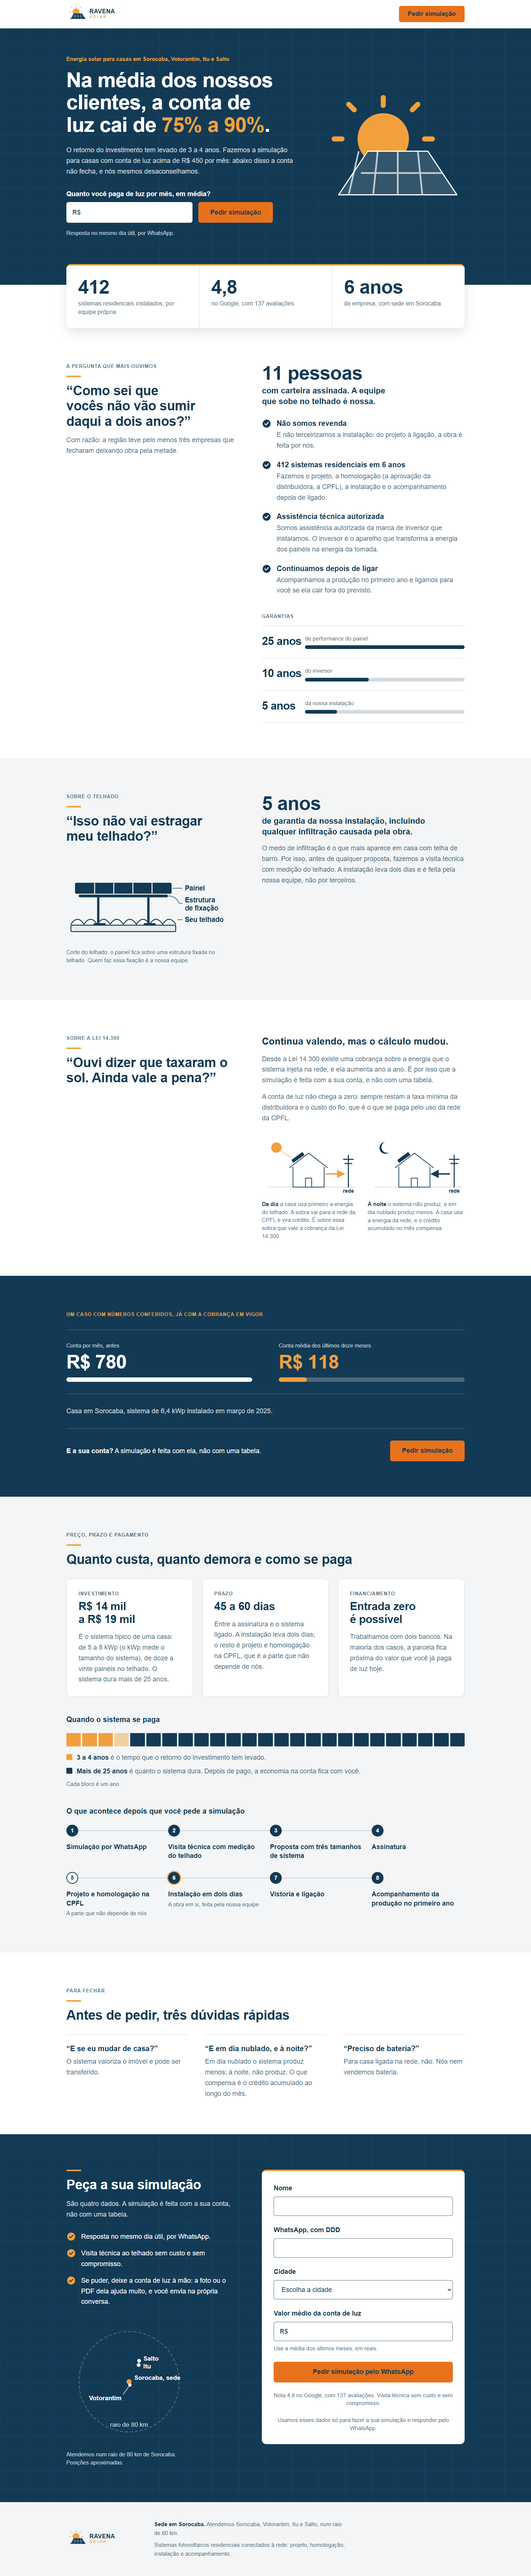
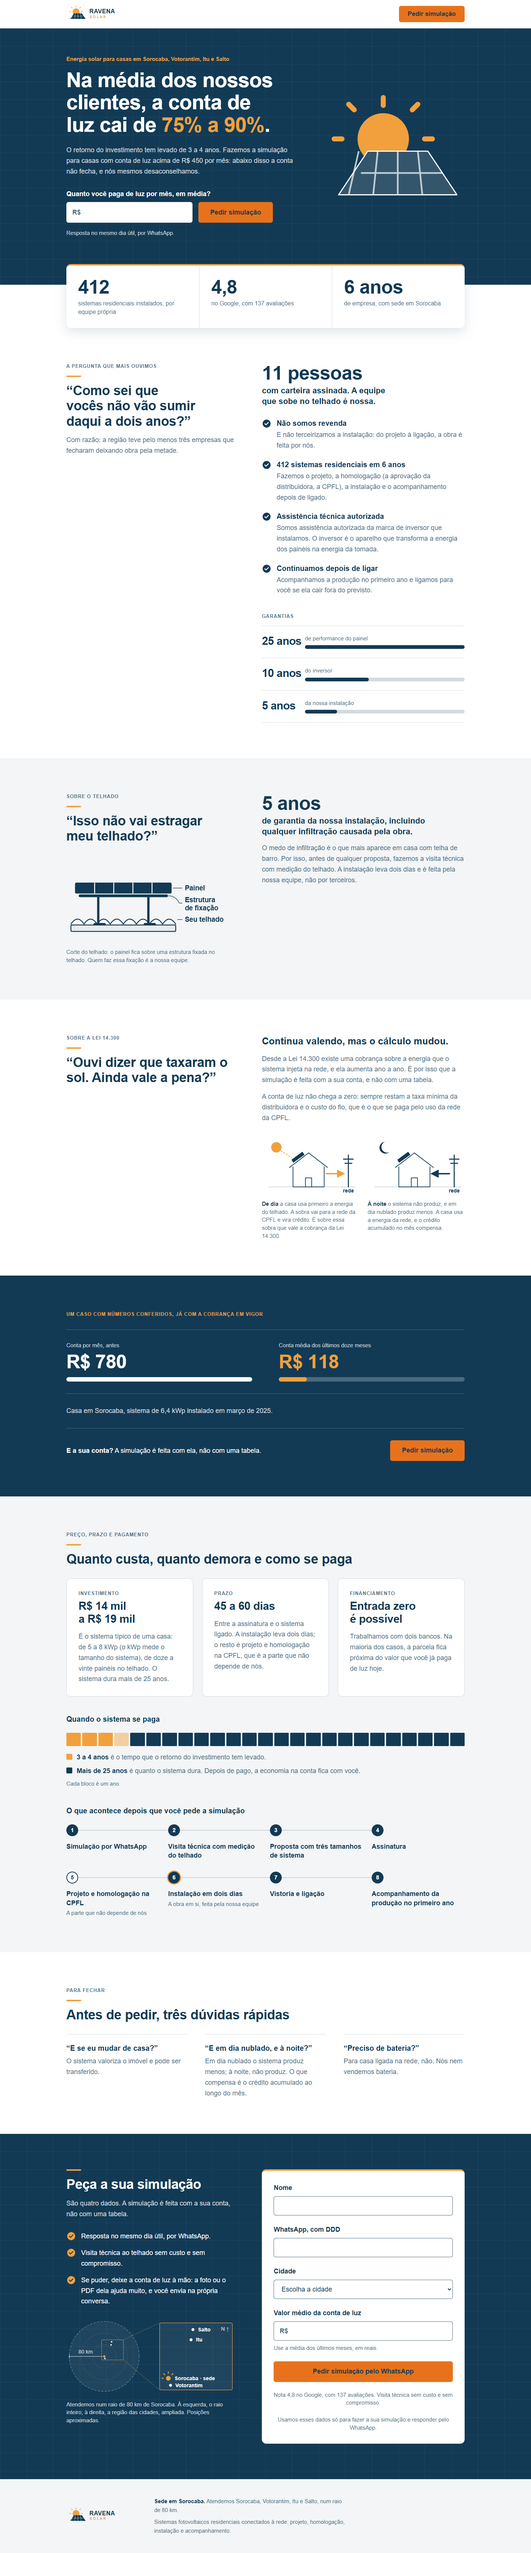
Mapa do raio em duas escalas, ligado ao campo Cidade
Visão geral com o raio de 80 km e quadro ampliado das quatro cidades,
nas mesmas posições relativas. A cidade escolhida no formulário ganha
anel âmbar; 'Outra cidade' acende o raio. No celular o quadro ampliado
fica dentro do formulário, abaixo do campo Cidade.

diff --git a/index.html b/index.html
@@ -327,24 +327,30 @@
             <li><p>Se puder, deixe a conta de luz à mão: a foto ou o PDF dela ajuda muito, e você envia na própria conversa.</p></li>
           </ul>
 
-          <!-- Raio de atendimento. Posições aproximadas, na proporção real das distâncias (1,5px por km). -->
-          <figure class="diagrama diagrama-mapa">
-            <svg viewBox="0 0 300 300" role="img" aria-labelledby="mapa-legenda" xmlns="http://www.w3.org/2000/svg">
-              <circle class="d-raio" cx="150" cy="150" r="120"/>
-              <circle class="d-sede" cx="150" cy="150" r="6"/>
-              <circle class="d-cidade" cx="152" cy="158" r="4"/>
-              <circle class="d-cidade" cx="173" cy="110" r="4.5"/>
-              <circle class="d-cidade" cx="174" cy="100" r="4.5"/>
-              <path class="d-guia-clara" d="M149 162 L136 180"/>
-              <g class="d-texto-claro">
-                <text x="162" y="146">Sorocaba, sede</text>
-                <text x="132" y="194" text-anchor="end">Votorantim</text>
-                <text x="184" y="118">Itu</text>
-                <text x="184" y="100">Salto</text>
-                <text x="150" y="258" text-anchor="middle" class="d-texto-suave">raio de 80 km</text>
-              </g>
+          <!-- Raio de atendimento em duas escalas. Distâncias reais: 1,5px por km na visão geral,
+               5px por km no quadro ampliado (mesmas posições relativas). -->
+          <figure class="diagrama diagrama-mapa so-computador">
+            <svg class="mapa" viewBox="20 20 580 260" role="img" aria-labelledby="mapa-legenda" xmlns="http://www.w3.org/2000/svg">
+              <circle class="m-area" cx="150" cy="150" r="120"/>
+              <circle class="m-anel-interno" cx="150" cy="150" r="80"/>
+              <circle class="m-anel-interno" cx="150" cy="150" r="40"/>
+              <line class="m-escala" x1="143" y1="150" x2="30" y2="150"/>
+              <path class="m-escala" d="M30 144 V156"/>
+              <text class="m-escala-texto" x="86" y="140" text-anchor="middle">80 km</text>
+              <rect class="m-recorte" x="141" y="93" width="75" height="69" rx="3"/>
+              <path class="m-ligacao" d="M216 93 L340 35 M216 162 L340 265"/>
+              <circle class="m-ponto-geral" data-cidade-geral="Votorantim" cx="152.3" cy="157.2" r="2.5"/>
+              <circle class="m-ponto-geral" data-cidade-geral="Itu" cx="173.4" cy="110.4" r="2.5"/>
+              <circle class="m-ponto-geral" data-cidade-geral="Salto" cx="175.4" cy="99.9" r="2.5"/>
+              <circle class="m-sol" data-cidade-geral="Sorocaba" cx="150" cy="150" r="4"/>
+              <rect class="m-moldura" x="340" y="35" width="250" height="230" rx="6"/>
+              <text class="m-norte" x="578" y="62" text-anchor="end">N ↑</text>
+              <g class="m-local" data-cidade="Salto"><circle class="m-anel" cx="454.5" cy="58" r="11"/><circle class="m-ponto" cx="454.5" cy="58" r="5"/><text x="471" y="64">Salto</text></g>
+              <g class="m-local" data-cidade="Itu"><circle class="m-anel" cx="448" cy="93" r="11"/><circle class="m-ponto" cx="448" cy="93" r="5"/><text x="465" y="99">Itu</text></g>
+              <g class="m-local" data-cidade="Votorantim"><circle class="m-anel" cx="377.5" cy="249" r="11"/><circle class="m-ponto" cx="377.5" cy="249" r="5"/><text x="394" y="255">Votorantim</text></g>
+              <g class="m-local m-sede" data-cidade="Sorocaba"><circle class="m-anel" cx="370" cy="225" r="15"/><path class="m-raios" d="M370 208 V203 M358 213 L354 209 M382 213 L386 209 M353 225 H348"/><circle class="m-sol" cx="370" cy="225" r="8"/><text x="391" y="231">Sorocaba · sede</text></g>
             </svg>
-            <figcaption id="mapa-legenda">Atendemos num raio de 80 km de Sorocaba. Posições aproximadas.</figcaption>
+            <figcaption id="mapa-legenda">Atendemos num raio de 80 km de Sorocaba. À esquerda, o raio inteiro; à direita, a região das cidades, ampliada. Posições aproximadas.</figcaption>
           </figure>
         </div>
 
@@ -373,6 +379,19 @@
             </select>
             <p class="erro" id="erro-cidade" hidden></p>
           </div>
+
+          <!-- No celular, o quadro ampliado fica junto do campo, para o destaque da cidade aparecer onde a pessoa escolhe. -->
+          <figure class="diagrama mapa-compacto so-celular">
+            <svg class="mapa" viewBox="330 25 270 250" role="img" aria-labelledby="mapa-compacto-legenda" xmlns="http://www.w3.org/2000/svg">
+              <rect class="m-moldura" x="340" y="35" width="250" height="230" rx="6"/>
+              <text class="m-norte" x="578" y="62" text-anchor="end">N ↑</text>
+              <g class="m-local" data-cidade="Salto"><circle class="m-anel" cx="454.5" cy="58" r="11"/><circle class="m-ponto" cx="454.5" cy="58" r="5"/><text x="471" y="64">Salto</text></g>
+              <g class="m-local" data-cidade="Itu"><circle class="m-anel" cx="448" cy="93" r="11"/><circle class="m-ponto" cx="448" cy="93" r="5"/><text x="465" y="99">Itu</text></g>
+              <g class="m-local" data-cidade="Votorantim"><circle class="m-anel" cx="377.5" cy="249" r="11"/><circle class="m-ponto" cx="377.5" cy="249" r="5"/><text x="394" y="255">Votorantim</text></g>
+              <g class="m-local m-sede" data-cidade="Sorocaba"><circle class="m-anel" cx="370" cy="225" r="15"/><path class="m-raios" d="M370 208 V203 M358 213 L354 209 M382 213 L386 209 M353 225 H348"/><circle class="m-sol" cx="370" cy="225" r="8"/><text x="391" y="231">Sorocaba · sede</text></g>
+            </svg>
+            <figcaption id="mapa-compacto-legenda">Atendemos num raio de 80 km de Sorocaba. Posições aproximadas.</figcaption>
+          </figure>
 
           <div class="campo" id="campo-outra-cidade" hidden>
             <label for="outra-cidade">Qual cidade?</label>

diff --git a/styles.css b/styles.css
@@ -753,15 +753,42 @@ p { max-width: var(--medida); }
 .d-ponta-ambar { fill: var(--ambar); }
 .d-ponta-azul { fill: var(--azul); }
 
-/* Mapa do raio, sobre azul */
-.diagrama-mapa { max-width: 340px; }
+/* Mapa do raio: visão geral + quadro ampliado, sobre azul */
 .diagrama-mapa figcaption { color: var(--branco-suave); }
-.d-raio { fill: none; stroke: var(--linha-clara); stroke-width: 2; stroke-dasharray: 6 6; }
-.d-cidade { fill: var(--branco); }
-.d-sede { fill: var(--ambar); }
-.d-guia-clara { stroke: var(--branco-suave); stroke-width: 1.5; }
-.d-texto-claro text { fill: var(--branco); font-size: 15px; font-weight: 700; }
-.d-texto-claro .d-texto-suave { fill: var(--branco-suave); font-weight: 400; }
+.mapa text { fill: var(--branco); font-size: 18px; font-weight: 700; }
+.m-area { fill: var(--branco); fill-opacity: var(--textura); stroke: var(--branco); stroke-opacity: 0.4; stroke-width: 1.5; stroke-dasharray: 6 6; }
+.m-anel-interno { stroke: var(--branco); stroke-opacity: 0.1; stroke-width: 1; }
+.m-escala { stroke: var(--branco-suave); stroke-width: 1.5; }
+.mapa .m-escala-texto { font-weight: 400; fill: var(--branco-suave); }
+.m-recorte { stroke: var(--ambar); stroke-width: 1.5; stroke-dasharray: 4 3; }
+.m-ligacao { stroke: var(--ambar); stroke-opacity: 0.5; stroke-width: 1; }
+.m-moldura { fill: var(--branco); fill-opacity: var(--textura); stroke: var(--ambar); stroke-width: 1.5; }
+.mapa .m-norte { font-weight: 400; fill: var(--branco-suave); }
+.m-ponto, .m-ponto-geral { fill: var(--branco); }
+.m-sol { fill: var(--ambar); }
+.m-raios { stroke: var(--ambar); stroke-width: 3; }
+/* Cidade escolhida no formulário: anel âmbar e nome em âmbar (texto âmbar só sobre azul) */
+.m-anel { stroke: var(--ambar); stroke-width: 3; opacity: 0; transition: opacity 0.2s ease; }
+.m-local.escolhida .m-anel { opacity: 1; }
+.mapa .m-local.escolhida text { fill: var(--ambar); }
+/* "Outra cidade": acende o raio e a moldura */
+.mapa.outra-escolhida .m-area { stroke: var(--ambar); stroke-opacity: 1; stroke-width: 2.5; }
+.mapa.outra-escolhida .m-moldura { stroke-width: 3; }
+
+/* No celular, só o quadro ampliado, dentro do formulário */
+.so-computador { display: none; }
+.mapa-compacto {
+  margin: 0;
+  padding: var(--e-3);
+  border-radius: var(--raio-cartao);
+  background: var(--azul);
+}
+.mapa-compacto .mapa text { font-size: 15px; }
+.mapa-compacto figcaption { margin-top: var(--e-2); color: var(--branco-suave); }
+
+@media (prefers-reduced-motion: reduce) {
+  .m-anel { transition: none; }
+}
 
 @media (min-width: 760px) {
   .hero-conta-linha { grid-template-columns: 1fr auto; }
@@ -771,4 +798,6 @@ p { max-width: var(--medida); }
   .ano { height: 36px; }
   .credito { grid-template-columns: 1fr 1fr; gap: var(--e-4); }
   .diagrama-telhado { max-width: 420px; }
+  .so-computador { display: block; }
+  .so-celular { display: none; }
 }

diff --git a/script.js b/script.js
@@ -145,7 +145,19 @@
     atualizarFaixaDaConta(true);
   });
 
+  // O mapa do raio marca a cidade escolhida; "outra" acende o raio inteiro.
+  function marcarCidadeNoMapa() {
+    var escolha = campos.cidade.value;
+    document.querySelectorAll('.mapa').forEach(function (mapa) {
+      mapa.classList.toggle('outra-escolhida', escolha === 'outra');
+    });
+    document.querySelectorAll('.m-local').forEach(function (local) {
+      local.classList.toggle('escolhida', local.getAttribute('data-cidade') === escolha);
+    });
+  }
+
   campos.cidade.addEventListener('change', function () {
+    marcarCidadeNoMapa();
     campoOutraCidade.hidden = campos.cidade.value !== 'outra';
     if (campos.cidade.value !== 'outra') mostrarErro(campos.outraCidade, '');
   });

diff --git a/SPEC.md b/SPEC.md
@@ -68,6 +68,10 @@
    - **Diagrama do crédito na Lei 14.300.** Dois quadros, de dia e de noite: a sobra vai para a rede da CPFL e vira crédito; à noite a casa usa a rede e o crédito compensa. *Por quê:* a cobrança da lei é sobre essa sobra, e quase ninguém entende como funciona. Imagem com texto se entende mais rápido que parágrafo.
    - **Corte do telhado.** Painel, estrutura de fixação e telhado, ao lado do "5 anos". *Por quê:* o medo é do que acontece com a telha. O corte mostra onde a obra toca o telhado, e a garantia aparece logo ao lado.
    - **Raio de 80 km desenhado no formulário**, com Sorocaba no centro e as outras três cidades em posição aproximada. *Por quê:* responde "vocês atendem aqui?" no momento de escolher a cidade.
+     Na primeira versão o mapa ficou cru: na escala real as quatro cidades cabem em uns 35 km de um raio de 80, então o círculo ficava vazio e Votorantim encostava em Sorocaba. Agora ele tem duas escalas. A visão geral mostra o raio com a área preenchida e a linha "80 km" como escala, e a região das cidades fica marcada. Ao lado, um quadro ampliado mostra as quatro cidades nas mesmas posições relativas. A sede é o sol da logo. *Por quê:* é o recurso clássico de mapa com quadro de detalhe; resolve a leitura sem distorcer distância nenhuma.
+     **O mapa responde ao campo "Cidade":** a cidade escolhida ganha um anel âmbar e o nome em âmbar; "Outra cidade a até 80 km" acende o raio inteiro. *Por quê:* o mapa deixa de ser enfeite e confirma, na hora, que a pessoa está dentro da área atendida.
+     **No celular, o mapa vai para dentro do formulário,** logo abaixo do campo "Cidade", só com o quadro ampliado, sobre fundo azul. *Por quê:* no celular o mapa ficava acima do formulário, e quem escolhia a cidade não via o destaque. No computador ele continua na coluna da esquerda, ao lado do campo.
+     Sem JavaScript o mapa aparece inteiro, só sem o destaque. Ficam de fora: rodovias com número, cidades fora da lista do brief, distância escrita por cidade e animação.
    - **Jargão explicado em linha:** kWp, inversor, homologação e custo do fio. *Por quê:* quem compra tem de 35 a 60 anos e não é técnico. A página usa as palavras do setor, então precisa dizer o que elas querem dizer.
    - **"11 pessoas" é o número de destaque da objeção 1.** *Por quê:* "equipe própria, com carteira assinada" é a prova mais direta contra "vão sumir", e as outras duas objeções já tinham número de destaque.
    - **Uma linha sobre os dados no formulário:** para que eles servem. *Por quê:* a pessoa hesita ao entregar o telefone, e a resposta cabe numa linha.

diff --git a/DESIGN.md b/DESIGN.md
@@ -84,7 +84,12 @@ Hierarquia: o maior texto da tela é sempre o número ou a promessa. Título de 
 - **Diagramas** (crédito, corte do telhado, raio de atendimento): SVG desenhado no próprio HTML, só com as cores da logo. Traço de 2px em `--azul` sobre branco ou `--branco` sobre azul, cantos e pontas arredondados. Sol e setas da sobra em `--ambar`, sede no mapa em `--ambar`. Painel como na logo: `--azul` com linhas `--branco`. Texto dentro do desenho só para nomes curtos, em `--t-pequeno`. A explicação fica na legenda (`figcaption`), em HTML. Sem animação e sem gente.
   - **Crédito:** dois quadros lado a lado no computador (empilhados no celular), "De dia" e "À noite", com a mesma casa e o poste da rede.
   - **Telhado:** corte com painel, trilho, ganchos, telhas onduladas e a madeira, com os nomes à direita.
-  - **Raio:** círculo tracejado em `--linha-clara` (80 km), Sorocaba no centro em `--ambar`, as outras cidades em `--branco`. Posições aproximadas, na proporção real das distâncias.
+  - **Raio:** duas escalas no mesmo desenho, sobre `--azul`.
+    - *Visão geral* (1,5px por km): círculo de 80 km com área em `--branco` a 0,06 (o mesmo valor de `--textura`) e borda tracejada em `--branco` a 0,4; dois anéis internos sem número em `--branco` a 0,1; uma linha do centro à borda com "80 km" em cima, que faz as vezes de escala. A região das cidades fica num retângulo tracejado em `--ambar`, ligado ao quadro ampliado por duas linhas finas.
+    - *Quadro ampliado* (5px por km): moldura em `--ambar`, as cidades na mesma posição relativa, nomes à direita do ponto e "N ↑" no canto. A sede é o sol da logo (círculo e raios em `--ambar`); as outras cidades são pontos `--branco` de 5px.
+    - *Cidade escolhida:* anel de 3px em `--ambar` em volta do ponto e nome em `--ambar` (texto âmbar só sobre azul). "Outra cidade" acende a borda do raio em `--ambar`.
+    - Texto do mapa em 18 unidades do desenho no computador (o mapa é reduzido para caber na coluna) e `--t-pequeno` no celular.
+    - *No celular:* só o quadro ampliado, dentro do formulário, logo abaixo do campo "Cidade", num bloco `--azul` com `--raio-cartao`. A visão geral aparece só a partir de 760px.
 
 ## Movimento
 

diff --git a/verificacao/README.md b/verificacao/README.md
@@ -27,7 +27,8 @@ node verificar.mjs <URL no ar>     # confere a página publicada (arquivos com s
 | `computador-1440-credito.png` | Computador: Lei 14.300 com o diagrama do crédito de dia e de noite |
 | `computador-1440-caso-acao.png` | Computador: caso de Sorocaba terminando com o botão |
 | `computador-1440-retorno.png` | Computador: os 25 blocos de anos, do retorno à vida útil |
-| `computador-1440-formulario-raio.png` | Computador: formulário com o raio de 80 km desenhado |
+| `computador-1440-mapa-cidade-itu.png` | Computador: mapa do raio em duas escalas, com Itu escolhida no formulário |
+| `celular-390-mapa-cidade-itu.png` | Celular: quadro ampliado dentro do formulário, logo abaixo do campo "Cidade", com Itu marcada |
 
 Os arquivos com `-no-ar` no nome são as mesmas capturas, tiradas da página publicada.
 
@@ -42,6 +43,8 @@ Os arquivos com `-no-ar` no nome são as mesmas capturas, tiradas da página pub
 
 7. **Primeira tela (quarta versão):** contas de 200 e 449,99 digitadas ali mostram o aviso, não descem ao formulário e não abrem link; 450 e 780 descem ao formulário com a conta preenchida e o cursor no nome, também sem abrir link; em branco, o botão só leva ao formulário; sem JavaScript, o campo é um formulário com `action="#simulacao"`. O valor trazido ainda passa pelo filtro: trocado para 300 bloqueia, e 780 chega à mensagem do WhatsApp.
 8. **Diagramas e blocos (quarta versão):** 25 blocos de anos nas cores certas; botão no fim do caso; "11 pessoas" na objeção 1; os quatro diagramas aparecem com legenda e nome acessível, inclusive sem JavaScript, e só usam cores da logo, sem laranja.
+
+9. **Mapa do raio:** o quadro ampliado mantém as posições da visão geral (escala 5 para 1,5); celular e computador têm as mesmas posições; no celular o mapa fica logo abaixo do campo "Cidade" e, no computador, na coluna da esquerda; escolher cada uma das quatro cidades marca só ela, "Outra cidade" acende o raio, e sem escolha não há destaque.
 
 As capturas são tiradas com "menos movimento" ligado, para registrar a página já assentada.
 
